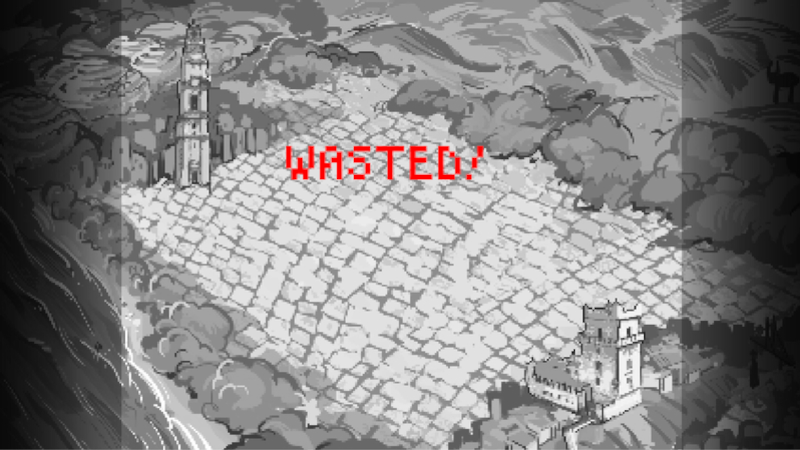
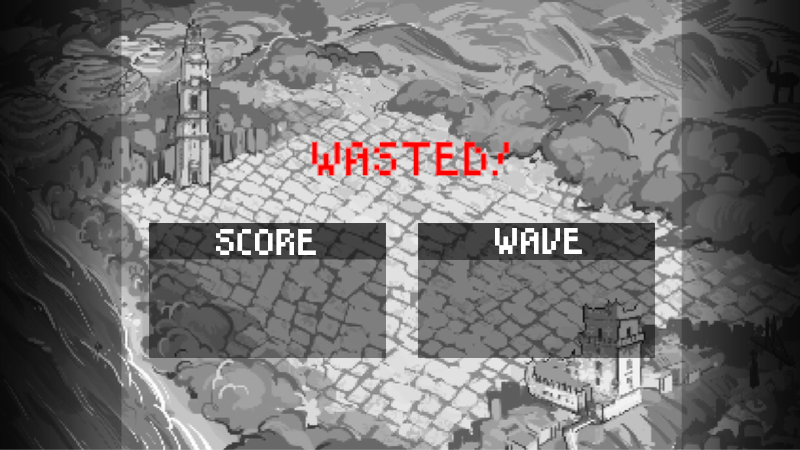
Added final gameOver image and text

Changed region(s): [[0.1875, 0.4978, 0.8438, 0.8089], [0.3438, 0.3111, 0.6562, 0.4044]]

diff --git a/src/org/academiadecodigo/bootcamp/civilwar/Game.java b/src/org/academiadecodigo/bootcamp/civilwar/Game.java
@@ -7,6 +7,7 @@ import org.academiadecodigo.bootcamp.civilwar.gameobject.player.Player;
 import org.academiadecodigo.bootcamp.civilwar.gameobject.position.CollisionDetector;
 import org.academiadecodigo.bootcamp.civilwar.gameobject.position.Position;
 import org.academiadecodigo.bootcamp.civilwar.gameobject.weapon.Weapon;
+import org.academiadecodigo.simplegraphics.graphics.Color;
 import org.academiadecodigo.simplegraphics.graphics.Text;
 
 /**
@@ -126,8 +127,10 @@ public class Game {
     public void gameOver() {
         screen.displayGameOver();
 
-        Text score = new Text(300, 300, ((Integer) player1.getScore()).toString());
-        Text waves = new Text(400, 300, ((Integer) screen.getWaveCount()).toString());
+        Text score = new Text(260, 300, ((Integer) player1.getScore()).toString());
+        Text waves = new Text(530, 300, ((Integer) screen.getWaveCount()).toString());
+        score.setColor(Color.WHITE);
+        waves.setColor(Color.WHITE);
         score.grow(20, 30);
         waves.grow(20, 30);
         score.draw();
